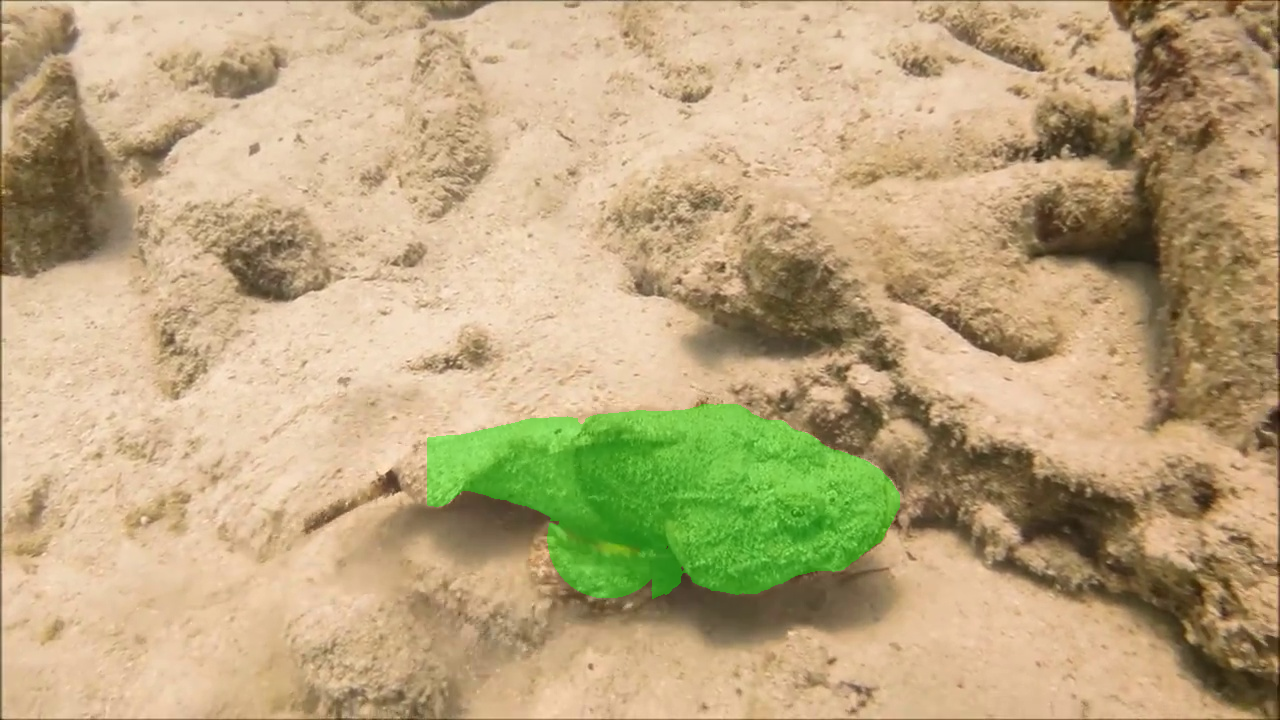
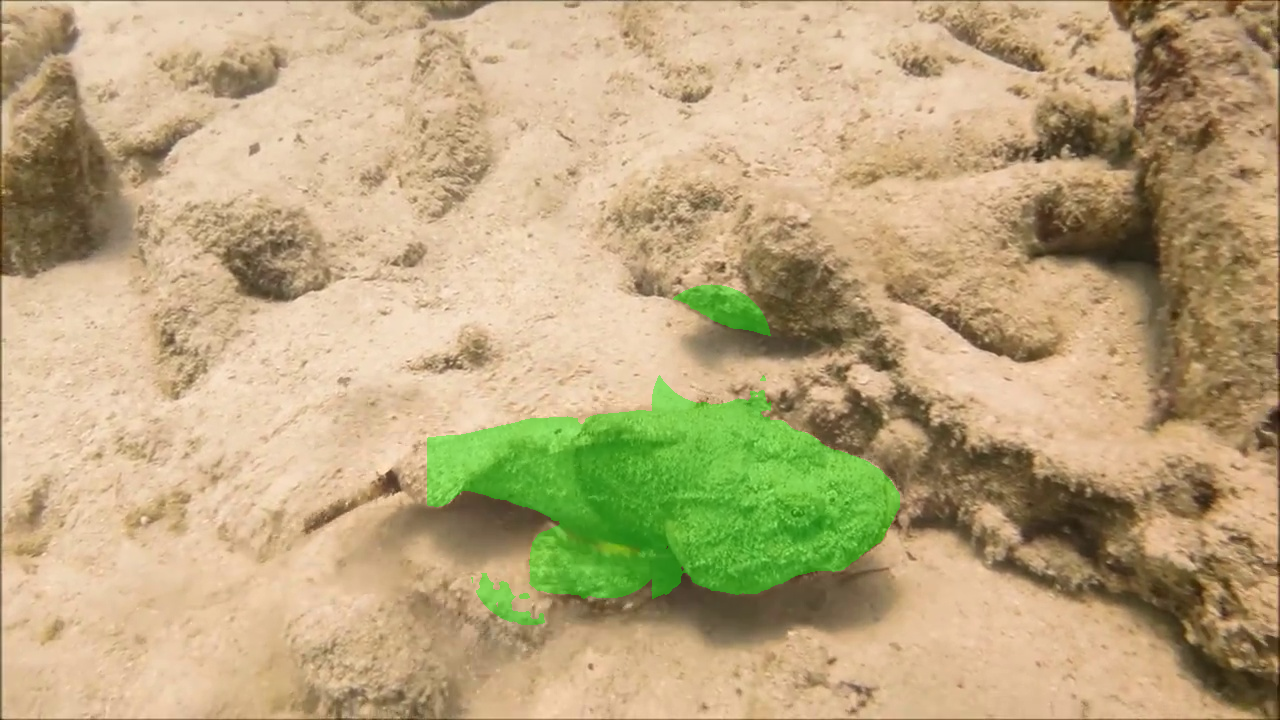
重复禁止起了一点作用

Changed region(s): [[0.375, 0.7333, 0.4688, 0.8861], [0.5312, 0.3972, 0.625, 0.4583], [0.5, 0.5194, 0.625, 0.5806]]

diff --git a/clean_sam_sculpt.py b/clean_sam_sculpt.py
@@ -617,6 +617,8 @@ def main():
     prev_selected_anchor_id: Optional[int] = None
     prev_change_pixels: Optional[int] = None
     min_change_threshold = 500  # 小于该像素变化视为收益很小，可考虑替换为次优候选
+    alt_score_margin = 0.05  # 次优分数容忍差距
+    banned_anchor_ids: set[int] = set()  # 本轮及后续轮次禁用的锚点ID
 
     for round_idx in range(max_rounds):
         print(f"\n=== 第 {round_idx + 1} 轮优化 ===")
@@ -635,26 +637,46 @@ def main():
         anchor_response = vlm.choose_anchors(anchor_vis_vlm, instance_name, global_reason=semantic_reason)
         selected_anchors = anchor_response.get('anchors_to_refine', [])
 
-        # 选择逻辑：支持top-k，默认使用第一个；若与上一轮相同且上一轮收益很小，则尝试次优候选
+        # 选择逻辑：
+        # 1) 过滤被禁用ID
+        # 2) 默认使用过滤后列表的第一个（或原列表的第一个）
+        # 3) 若与上一轮相同且上一轮收益很小，则尝试次优候选，并将上一轮ID加入禁用列表（后续永久跳过）
         chosen_anchor = None
         if isinstance(selected_anchors, list) and selected_anchors:
-            chosen_anchor = selected_anchors[0]
+            # 过滤被禁用的候选
+            filtered = []
+            for it in selected_anchors:
+                try:
+                    aid = int(it.get('id', -1))
+                except Exception:
+                    aid = -1
+                if 1 <= aid <= 8 and aid not in banned_anchor_ids:
+                    filtered.append(it)
+            candidates = filtered if filtered else selected_anchors
+
+            chosen_anchor = candidates[0]
             if prev_selected_anchor_id is not None and prev_change_pixels is not None:
                 same_as_prev = int(chosen_anchor.get('id', -1)) == int(prev_selected_anchor_id)
-                if same_as_prev and prev_change_pixels < min_change_threshold and len(selected_anchors) > 1:
-                    # 可选：仅当次优评分不明显更差时才替换（差距<=0.05）
+                if same_as_prev and prev_change_pixels < min_change_threshold and len(candidates) > 1:
+                    # 仅当次优评分不明显更差时才替换
                     top_score = chosen_anchor.get('score', None)
-                    for alt in selected_anchors[1:]:
+                    replaced = False
+                    for alt in candidates[1:]:
                         alt_id = int(alt.get('id', -1))
                         if not (1 <= alt_id <= 8):
                             continue
                         if alt_id == prev_selected_anchor_id:
                             continue
                         alt_score = alt.get('score', None)
-                        if top_score is None or alt_score is None or float(alt_score) >= float(top_score) - 0.05:
-                            print(f"[去重降权] 上一轮锚点{prev_selected_anchor_id}改变量较小({prev_change_pixels}px)，本轮优先改用次优候选锚点{alt_id}")
+                        if top_score is None or alt_score is None or float(alt_score) >= float(top_score) - alt_score_margin:
+                            print(f"[去重降权] 上一轮锚点{prev_selected_anchor_id}改变量较小({prev_change_pixels}px)，本轮优先改用次优候选锚点{alt_id}，并将{prev_selected_anchor_id}加入禁用列表")
                             chosen_anchor = alt
+                            banned_anchor_ids.add(int(prev_selected_anchor_id))
+                            replaced = True
                             break
+                    if not replaced and filtered and filtered[0] != chosen_anchor:
+                        # 若替换失败但有过滤候选，则使用过滤后的首选
+                        chosen_anchor = filtered[0]
             # 最终仅使用一个锚点进入后续流程
             selected_anchors = [chosen_anchor]
         

diff --git a/run.md b/run.md
@@ -1,26 +1,1 @@
-python refactor_sam_sculpt.py --name f --qwen_dir /home/albert/code/CV/models/Qwen2.5-VL-3B-Instruct --ratio 0.5 --vlm_max_side 720 --rounds 5
-
-# 默认模式：绝对标号追踪（推荐）
-python refactor_sam_sculpt.py --name f
-
-# 可选模式：位置追踪（复杂情况下使用）
-python refactor_sam_sculpt.py --name f --use_position_tracking --position_threshold 25
-
-# 每个锚点只能使用1次（严格模式）
-python refactor_sam_sculpt.py --name f --max_anchor_uses 1
-
-# 每个锚点可以使用3次（宽松模式）  
-python refactor_sam_sculpt.py --name f --max_anchor_uses 3
-
-python clean_sam_sculpt.py --name f --ratio 0.6 --vlm_max_side 720 --rounds 5 
-
-
-
-python clean_sam_sculpt.py --name f --ratio 0.5 --rounds 3
-
-# 支持的参数（简化版）
---name          # 样本名称
---qwen_dir      # Qwen模型路径  
---rounds        # 优化轮数
---ratio         # 切线正方形与ROI的比例
---vlm_max_side  # VLM输入图像最大边长
+cd /home/albert/code/CV && timeout 360 python clean_sam_sculpt.py --name f --qwen_dir /home/albert/code/CV/models/Qwen2.5-VL-7B-Instruct-AWQ --ratio 0.5 --vlm_max_side 720 --rounds 6 2>&1
